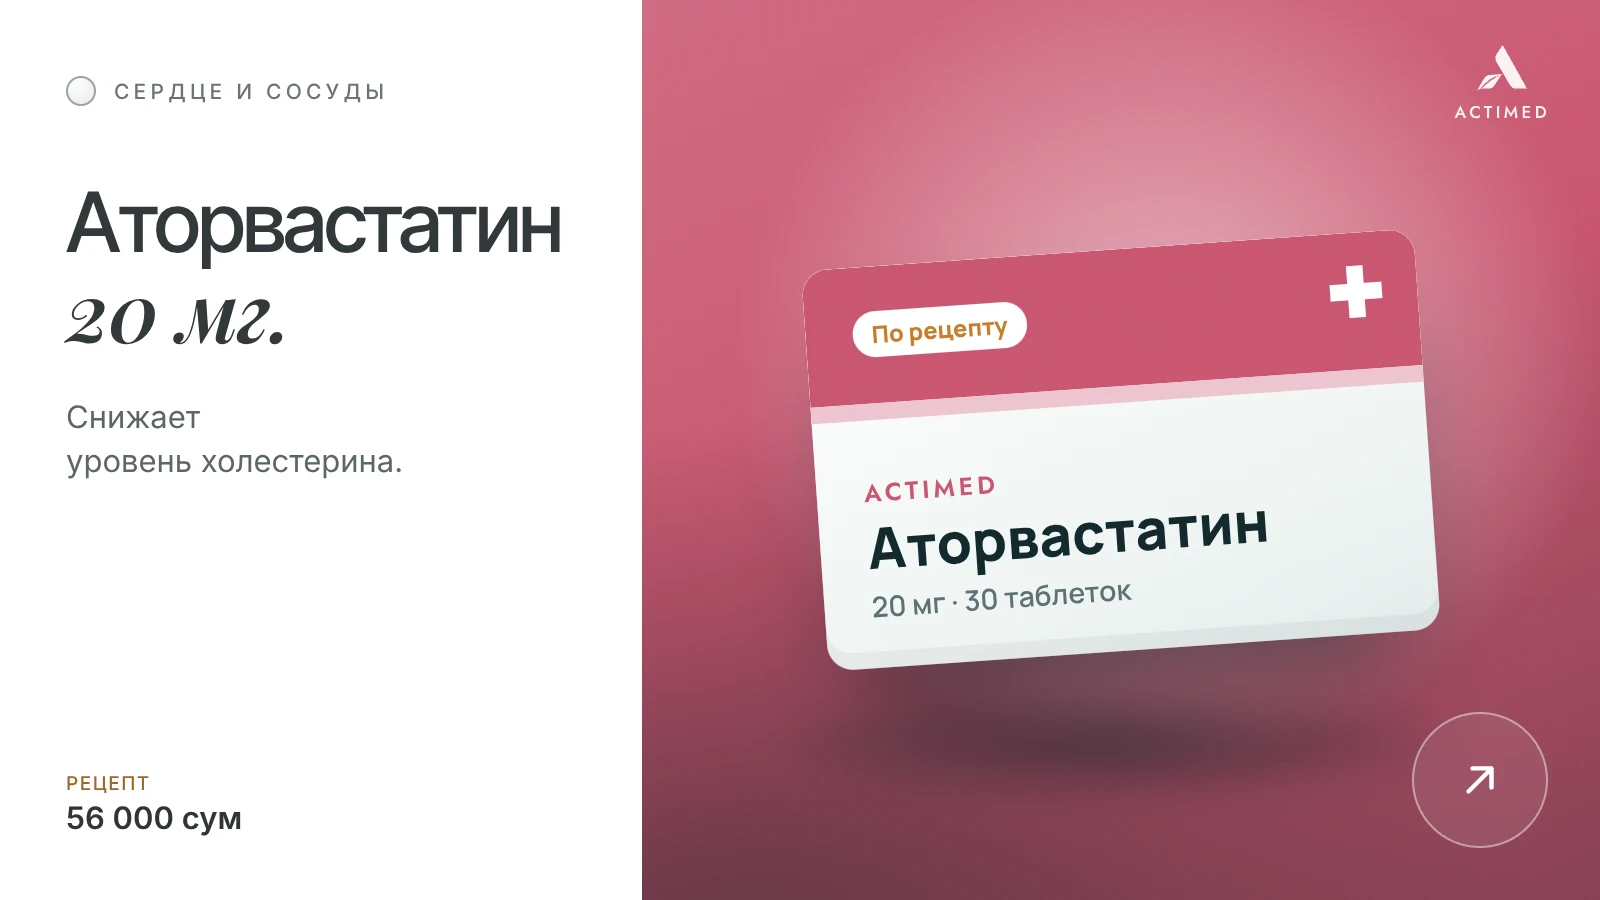
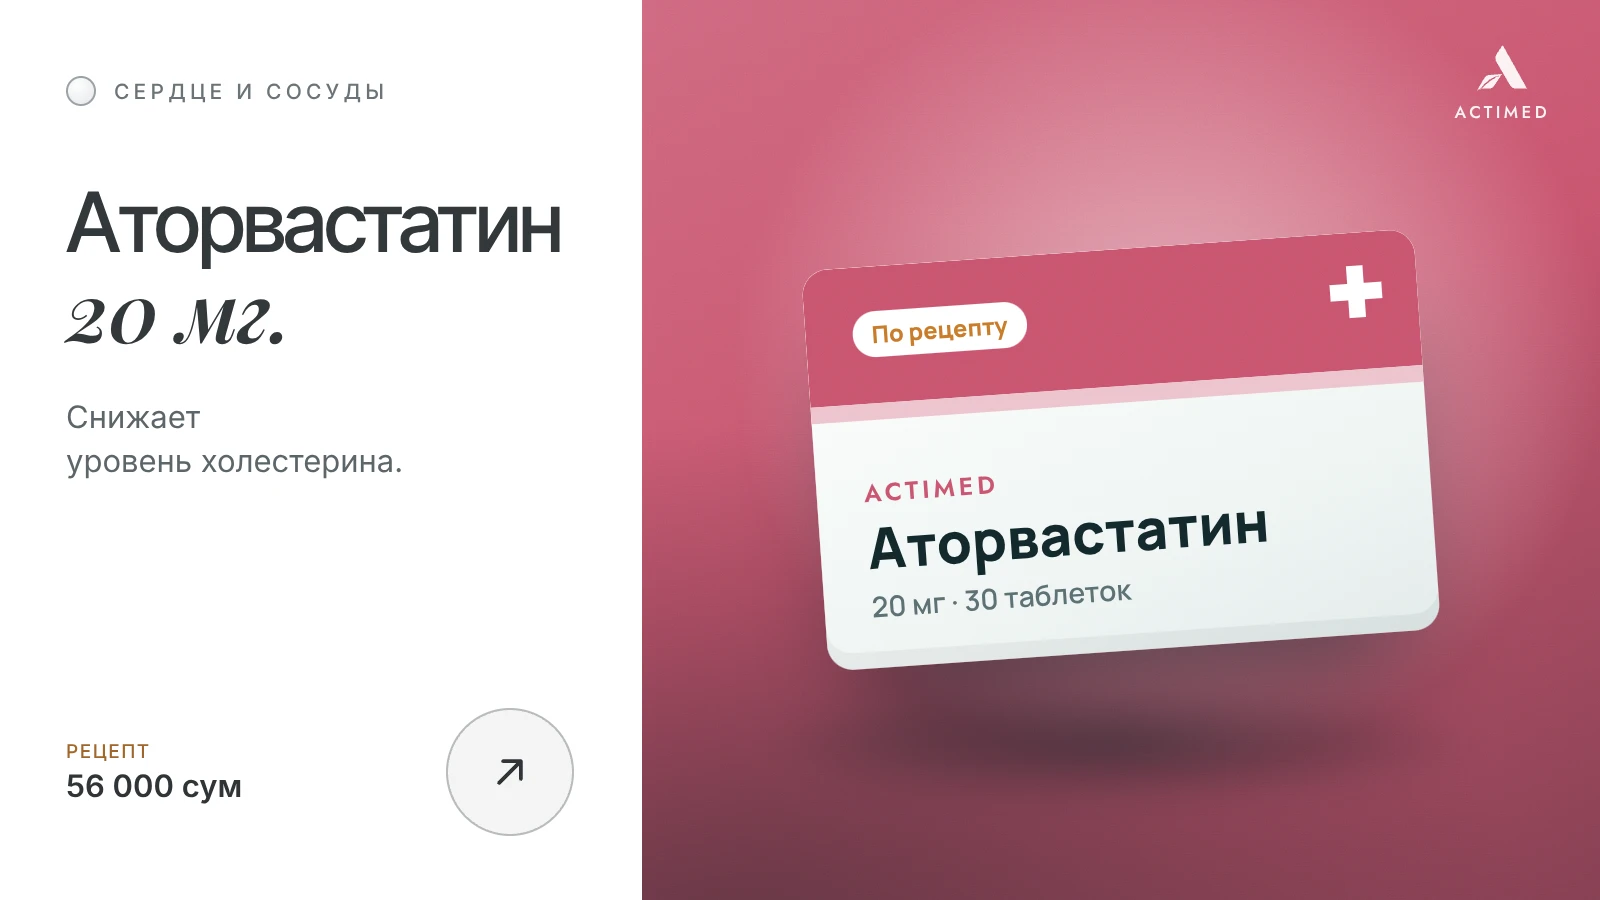
Ribbon: static floor with thick medical crosses; card arrow next to the price
The floor no longer slides with the ribbon: the plus marks stay put
while the cards travel over them. Each mark is now a filled medical
cross (bars a third of its size, slightly rounded corners) drawn with an
SDF in floor space, so it foreshortens with perspective; the glow,
twinkle and scroll flare are unchanged.

Card images: the round glass arrow moves from the photo into the
description panel, to the right of the price, in a dark variant of the
same style so it reads on the light glass.

Claude-Session: https://claude.ai/code/session_01PbBW3Besvns8EBZjTKQ2LW

Changed region(s): [[0.0312, 0.8089, 0.1562, 0.9333], [0.9062, 0.84, 0.9375, 0.8711], [0.3125, 0.84, 0.3438, 0.8711]]

diff --git a/site/js/ribbon.js b/site/js/ribbon.js
@@ -163,7 +163,6 @@ const gridVertex = /* glsl */ `
 `;
 
 const gridFragment = /* glsl */ `
-  uniform float uShift;
   uniform float uCell;
   uniform vec3 uColor;
   uniform float uNear;
@@ -179,29 +178,33 @@ const gridFragment = /* glsl */ `
     return fract((p3.x + p3.y) * p3.z);
   }
 
+  float box(vec2 p, vec2 b) {
+    vec2 d = abs(p) - b;
+    return length(max(d, 0.0)) + min(max(d.x, d.y), 0.0);
+  }
+
   void main() {
-    vec2 c = vec2(vWorld.x + uShift, vWorld.z) / uCell;
+    vec2 c = vec2(vWorld.x, vWorld.z) / uCell;   // пол неподвижен — лента едет над ним
     vec2 w = max(fwidth(c), vec2(1e-4));
     vec2 id = floor(c + 0.5);            // ближайший угол клетки
-    vec2 f = abs(c - id);                // 0 … 0.5
+    vec2 f = c - id;                     // -0.5 … 0.5
 
-    // от клетки остаётся только «+» в углу
-    float arm = 0.13;
-    vec2 thick = w * 0.6;
-    float bx = (1.0 - smoothstep(thick.y, thick.y + w.y, f.y)) * (1.0 - smoothstep(arm - w.x, arm, f.x));
-    float by = (1.0 - smoothstep(thick.x, thick.x + w.x, f.x)) * (1.0 - smoothstep(arm - w.y, arm, f.y));
-    float plus = max(bx, by);
-    float halo = exp(-dot(f, f) / 0.018);
+    // от клетки остаётся медицинский «+»: перекладины толщиной в треть креста,
+    // углы чуть скруглены
+    float arm = 0.16, bar = 0.054, rad = 0.014;
+    float d = min(box(f, vec2(arm, bar) - rad), box(f, vec2(bar, arm) - rad)) - rad;
+    float aa = max(fwidth(d), 1e-4);
+    float plus = 1.0 - smoothstep(-aa, aa, d);
+    float halo = exp(-dot(f, f) / 0.03);
 
     // у каждого плюса свой ритм мерцания, по полу медленно идёт волна света
-    vec2 key = vec2(mod(id.x, 256.0), id.y);
-    float tw = 0.5 + 0.5 * sin(uTime * (0.45 + hash(key) * 1.3) + hash(key + 19.19) * 6.2832);
-    float wave = pow(0.5 + 0.5 * sin(uTime * 0.8 - id.x * 0.2208932 - id.y * 0.31), 12.0);
+    float tw = 0.5 + 0.5 * sin(uTime * (0.45 + hash(id) * 1.3) + hash(id + 19.19) * 6.2832);
+    float wave = pow(0.5 + 0.5 * sin(uTime * 0.8 - id.x * 0.22 - id.y * 0.31), 12.0);
     float glow = 0.15 + 0.85 * tw * tw + 1.2 * wave + uBoost;
 
     float fade = (1.0 - smoothstep(uNear + 20.0, uFar, vDist)) * smoothstep(uNear - 20.0, uNear - 10.0, vDist);
     fade *= 1.0 - smoothstep(0.12, 0.3, max(w.x, w.y));   // у горизонта плюсы мельче пикселя — гасим
-    float a = (plus * (0.4 + 0.6 * min(glow, 1.0)) + halo * 0.32 * glow) * fade;
+    float a = (plus * (0.42 + 0.58 * min(glow, 1.0)) + halo * 0.3 * glow) * fade;
     gl_FragColor = vec4(uColor, min(a, 1.0));
   }
 `;
@@ -225,7 +228,7 @@ function init() {
   const scene = new THREE.Scene();
   const camera = new THREE.PerspectiveCamera(75, 1, 1, 800);
 
-  // Пол: светящиеся «+» в углах клеток
+  // Пол: светящиеся медицинские «+» в углах клеток; пол стоит на месте
   const CELL = 6;
   const grid = new THREE.Mesh(
     new THREE.PlaneGeometry(900, 900),
@@ -237,7 +240,6 @@ function init() {
       blending: THREE.AdditiveBlending,
       extensions: { derivatives: true },
       uniforms: {
-        uShift: { value: 0 },
         uCell: { value: CELL },
         uColor: { value: new THREE.Color('#3DF2B4') },
         uNear: { value: 27 },
@@ -487,8 +489,6 @@ function init() {
   /* ---------- Кадр ---------- */
   let rafId = 0, last = 0, lastCounter = -1, lastDraw = 0;
   const clockStart = performance.now();
-  // сдвиг пола берём по модулю 256 клеток — узор плюсов и волна от этого не прыгают
-  const FLOOR_PERIOD = CELL * 256;
 
   function frame() {
     rafId = 0;
@@ -525,7 +525,6 @@ function init() {
         mesh.position.x = wrap(mesh.userData.index * STEP - offset) + shape.x0 + focusShift;
       }
       const floor = grid.material.uniforms;
-      floor.uShift.value = ((offset % FLOOR_PERIOD) + FLOOR_PERIOD) % FLOOR_PERIOD;
       floor.uTime.value = reduceMotion ? 0 : (now - clockStart) / 1000;
       floor.uBoost.value = Math.min(1, Math.abs(vel) * 1.4);
       renderer.render(scene, camera);

diff --git a/site/tools/scene.html b/site/tools/scene.html
@@ -43,17 +43,16 @@
   .heading__a { font-family: "Inter Tight", Inter, sans-serif; font-weight: 500; letter-spacing: -.035em; }
   .heading__b { font-family: "Playfair Display", serif; font-style: italic; font-weight: 600; letter-spacing: -.01em; margin-top: 2px; }
   .sub { margin-top: 44px; font-family: Inter, sans-serif; font-size: 31px; line-height: 1.42; color: #5C656A; }
-  .bottom { position: absolute; left: 66px; right: 66px; bottom: 64px; display: flex; align-items: flex-end; }
-  /* стрелка «открыть» — круглая стеклянная кнопка в правом нижнем углу фото
-     (стиль .project-open: тонкая белая обводка, лёгкая заливка, размытие фона) */
+  .bottom { position: absolute; left: 66px; right: 66px; bottom: 64px; display: flex; align-items: center; justify-content: space-between; gap: 24px; }
+  /* стрелка «открыть» справа от цены — круглая стеклянная кнопка в стиле .project-open
+     (тонкая обводка, едва заметная заливка, размытие фона); на светлом стекле — тёмная */
   .go {
-    position: absolute; right: 52px; bottom: 52px; z-index: 2;
-    width: 136px; height: 136px; border-radius: 50%; display: grid; place-items: center;
-    border: 2.5px solid rgba(255, 255, 255, .44);
-    background: rgba(255, 255, 255, .07);
+    flex: none; width: 128px; height: 128px; border-radius: 50%; display: grid; place-items: center;
+    border: 2.5px solid rgba(47, 52, 55, .3);
+    background: rgba(47, 52, 55, .05);
     -webkit-backdrop-filter: blur(18px); backdrop-filter: blur(18px);
   }
-  .go svg { width: 66px; height: 66px; fill: none; stroke: #fff; stroke-width: 2.6; stroke-linecap: round; stroke-linejoin: round; }
+  .go svg { width: 62px; height: 62px; fill: none; stroke: #2F3437; stroke-width: 2.4; stroke-linecap: round; stroke-linejoin: round; }
   .price { font-family: Inter, sans-serif; font-weight: 600; font-size: 31px; color: #2F3437; white-space: nowrap; }
   .price small { display: block; font-weight: 500; font-size: 19px; color: #A0672A; letter-spacing: .08em; text-transform: uppercase; margin-bottom: 4px; }
 
@@ -230,13 +229,13 @@
         '<p class="caps">' + esc(cat.short) + '</p>' +
         '<h1 class="heading"><span class="heading__a" data-fit>' + esc(p.title) + '</span><span class="heading__b" data-fit>' + esc(p.accent) + '</span></h1>' +
         '<p class="sub">' + esc(p.short[0]) + '<br>' + esc(p.short[1]) + '</p>' +
-        '<div class="bottom"><span class="price">' + (p.rx ? '<small>Рецепт</small>' : '') + priceText(p.price) + '</span></div>' +
+        '<div class="bottom"><span class="price">' + (p.rx ? '<small>Рецепт</small>' : '') + priceText(p.price) + '</span>' +
+          '<span class="go"><svg viewBox="0 0 40 40"><path d="M13 27 27 13M15.5 13H27v11.5"/></svg></span></div>' +
       '</div>' +
       '<span class="card__strip"></span>' +
       '<div class="card__right"><span class="card__floor"></span>' +
         '<div class="card__stage">' + packHtml(p, 'transform:rotate(' + rot + 'deg) scale(' + SCALE[p.type] + ')') + '</div>' +
         '<span class="card__brand"><img src="../img/logo-mark.svg" alt="">ACTIMED</span>' +
-        '<span class="go"><svg viewBox="0 0 40 40"><path d="M13 27 27 13M15.5 13H27v11.5"/></svg></span>' +
       '</div>' +
     '</div>';
   }

diff --git a/site/README.md b/site/README.md
@@ -17,14 +17,15 @@
 ### Главная: лента
 
 - Карточка товара разделена белой полосой: слева 40% — описание на матовом
-  полупрозрачном «стекле», справа 60% — картинка; в её правом нижнем углу —
-  круглая стеклянная кнопка-стрелка.
+  полупрозрачном «стекле», справа 60% — картинка. Внизу описания — цена и
+  справа от неё круглая стеклянная кнопка-стрелка.
 - Лента бесконечная: колесо и тачпад, свайп, перетаскивание, стрелки. После
   остановки ближайшая карточка встаёт на место. Клик открывает страницу товара.
 - Изгиб идёт только в глубину (перспектива), без перекоса; при быстрой
   прокрутке края ленты слегка приподнимаются и закручиваются.
-- На полу в углах клеток — светящиеся «+»: каждый мерцает в своём ритме,
-  по полу идёт волна света, при прокрутке плюсы вспыхивают ярче.
+- На полу в углах клеток — светящиеся медицинские «+» (толстые перекладины).
+  Пол неподвижен; каждый плюс мерцает в своём ритме, по полу идёт волна
+  света, при прокрутке плюсы вспыхивают ярче.
 - `index.html?group=meds|vitamins|care` — лента одной группы (пункты меню).
 
 ### Страница товара
